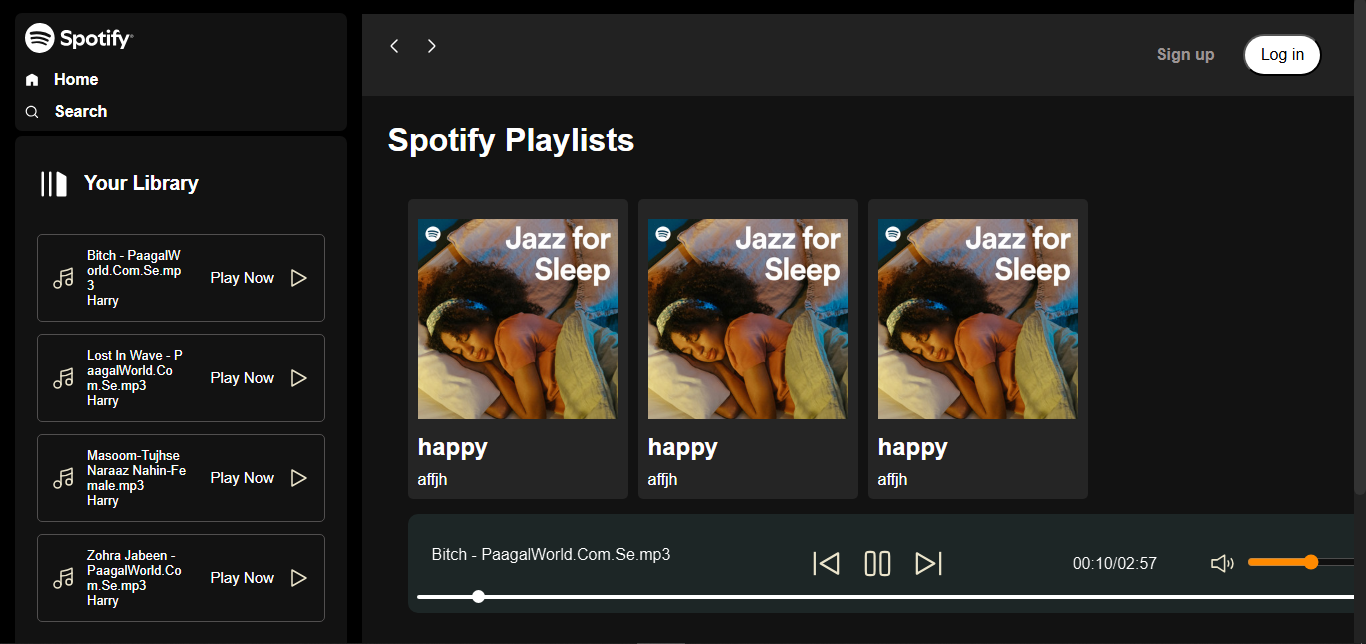
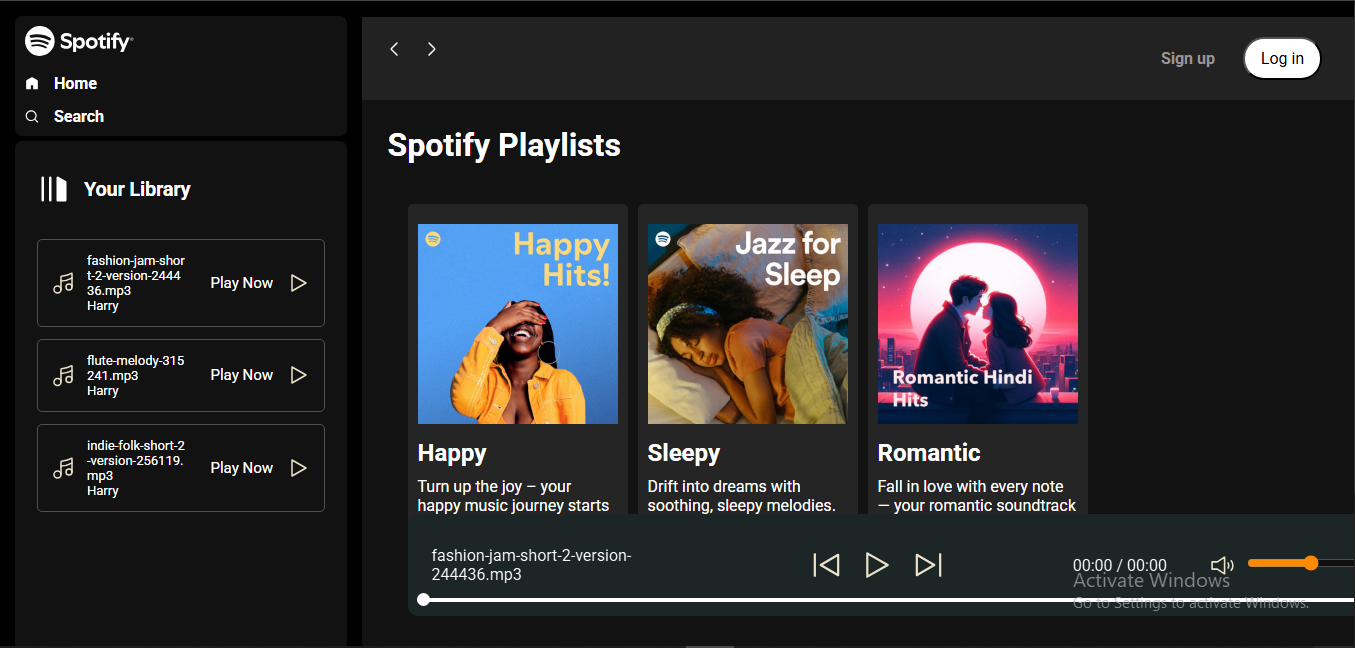
img update

diff --git a/index.html b/index.html
@@ -86,9 +86,9 @@
                             </svg>
                         </div>
 
-                        <img src="img/cover.jpg" alt="">
-                        <h2>happy</h2>
-                        <p>affjh</p>
+                        <img src="img/happy.jfif" alt="">
+                        <h2>Happy</h2>
+                        <p>Turn up the joy – your happy music journey starts here! 🎶😊</p>
                     </div>
                     <div data-folder="cs" class="card">
                         <div class="play">
@@ -100,8 +100,8 @@
                         </div>
 
                         <img src="img/cover.jpg" alt="">
-                        <h2>happy</h2>
-                        <p>affjh</p>
+                        <h2>Sleepy</h2>
+                        <p>Drift into dreams with soothing, sleepy melodies. 🌙🎵</p>
                     </div>
                     <div  class="card">
                         <div class="play">
@@ -112,9 +112,9 @@
                             </svg>
                         </div>
 
-                        <img src="img/cover.jpg" alt="">
-                        <h2>happy</h2>
-                        <p>affjh</p>
+                        <img src="img/romatic.jfif" alt="">
+                        <h2>Romantic</h2>
+                        <p>Fall in love with every note — your romantic soundtrack awaits. 💖🎶</p>
                     </div>
                     
                 <div class="playbar">

diff --git a/README.md b/README.md
@@ -1,26 +1,41 @@
 Spotify-Clone 🎵
-A lightweight, JavaScript-powered Spotify-themed web app interface inspired by the Spotify UI. Built with HTML, CSS, and JavaScript.
+
+A lightweight, JavaScript-powered Spotify-themed web app interface inspired by the Spotify UI.
+
+Built with HTML, CSS, and JavaScript.
 
 🚀 Features:-
 -Play/pause music functionality (static or integrated with Spotify API)
+
 -Responsive UI mimicking Spotify style
+
 -Interactive song list and basic controls
+
 -Smooth animations and transitions
+
 -Built using vanilla JavaScript (no frameworks)
 
 📦 Technologies Used:-
+
 -HTML5
+
 -CSS3 (Flexbox/Grid)
+
 -JavaScript (ES6+)
 
 🛠 Setup Instructions:-
 Clone the repo:
+
 git clone https://github.com/Mohit-sainiOnly/spotify-clone.git
+
 Open in browser:Just open index.html in your browser.
 
 -(Optional) To use real music data:
+
 -Register your app at Spotify Developer Dashboard
+
 -Get your Client ID and Client Secret
+
 -Integrate Spotify Web API in script.js
 
 
